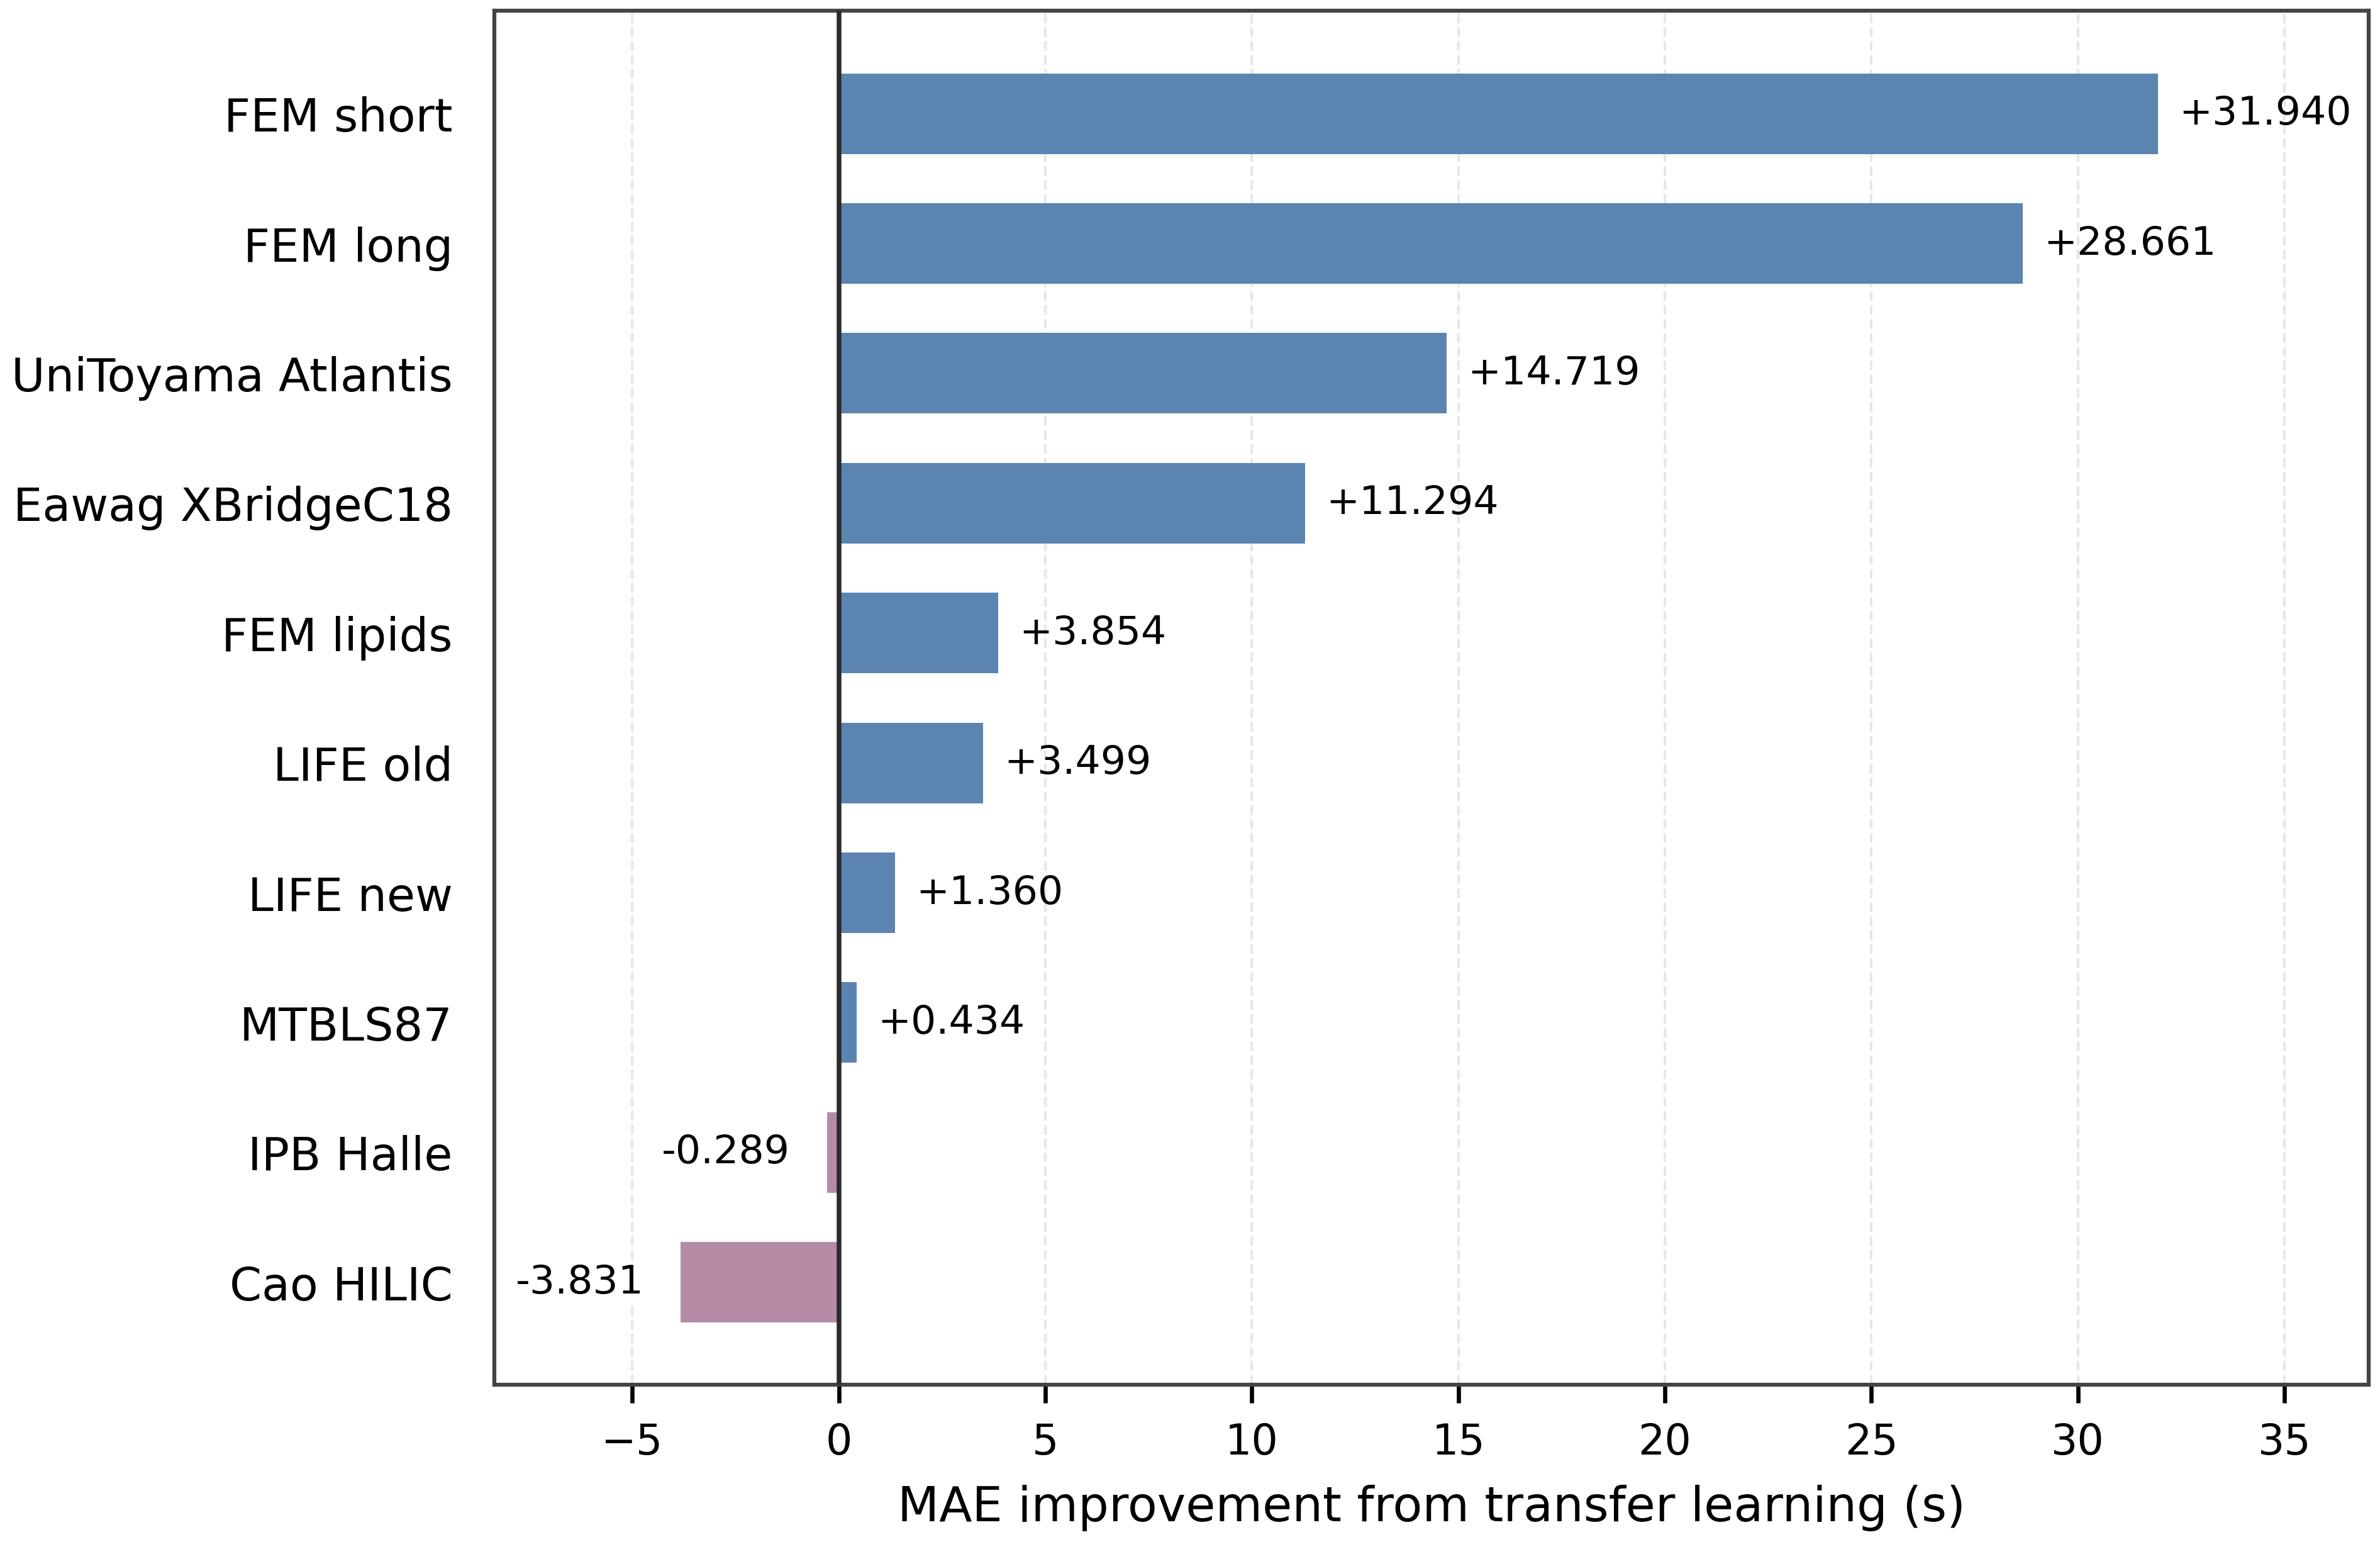
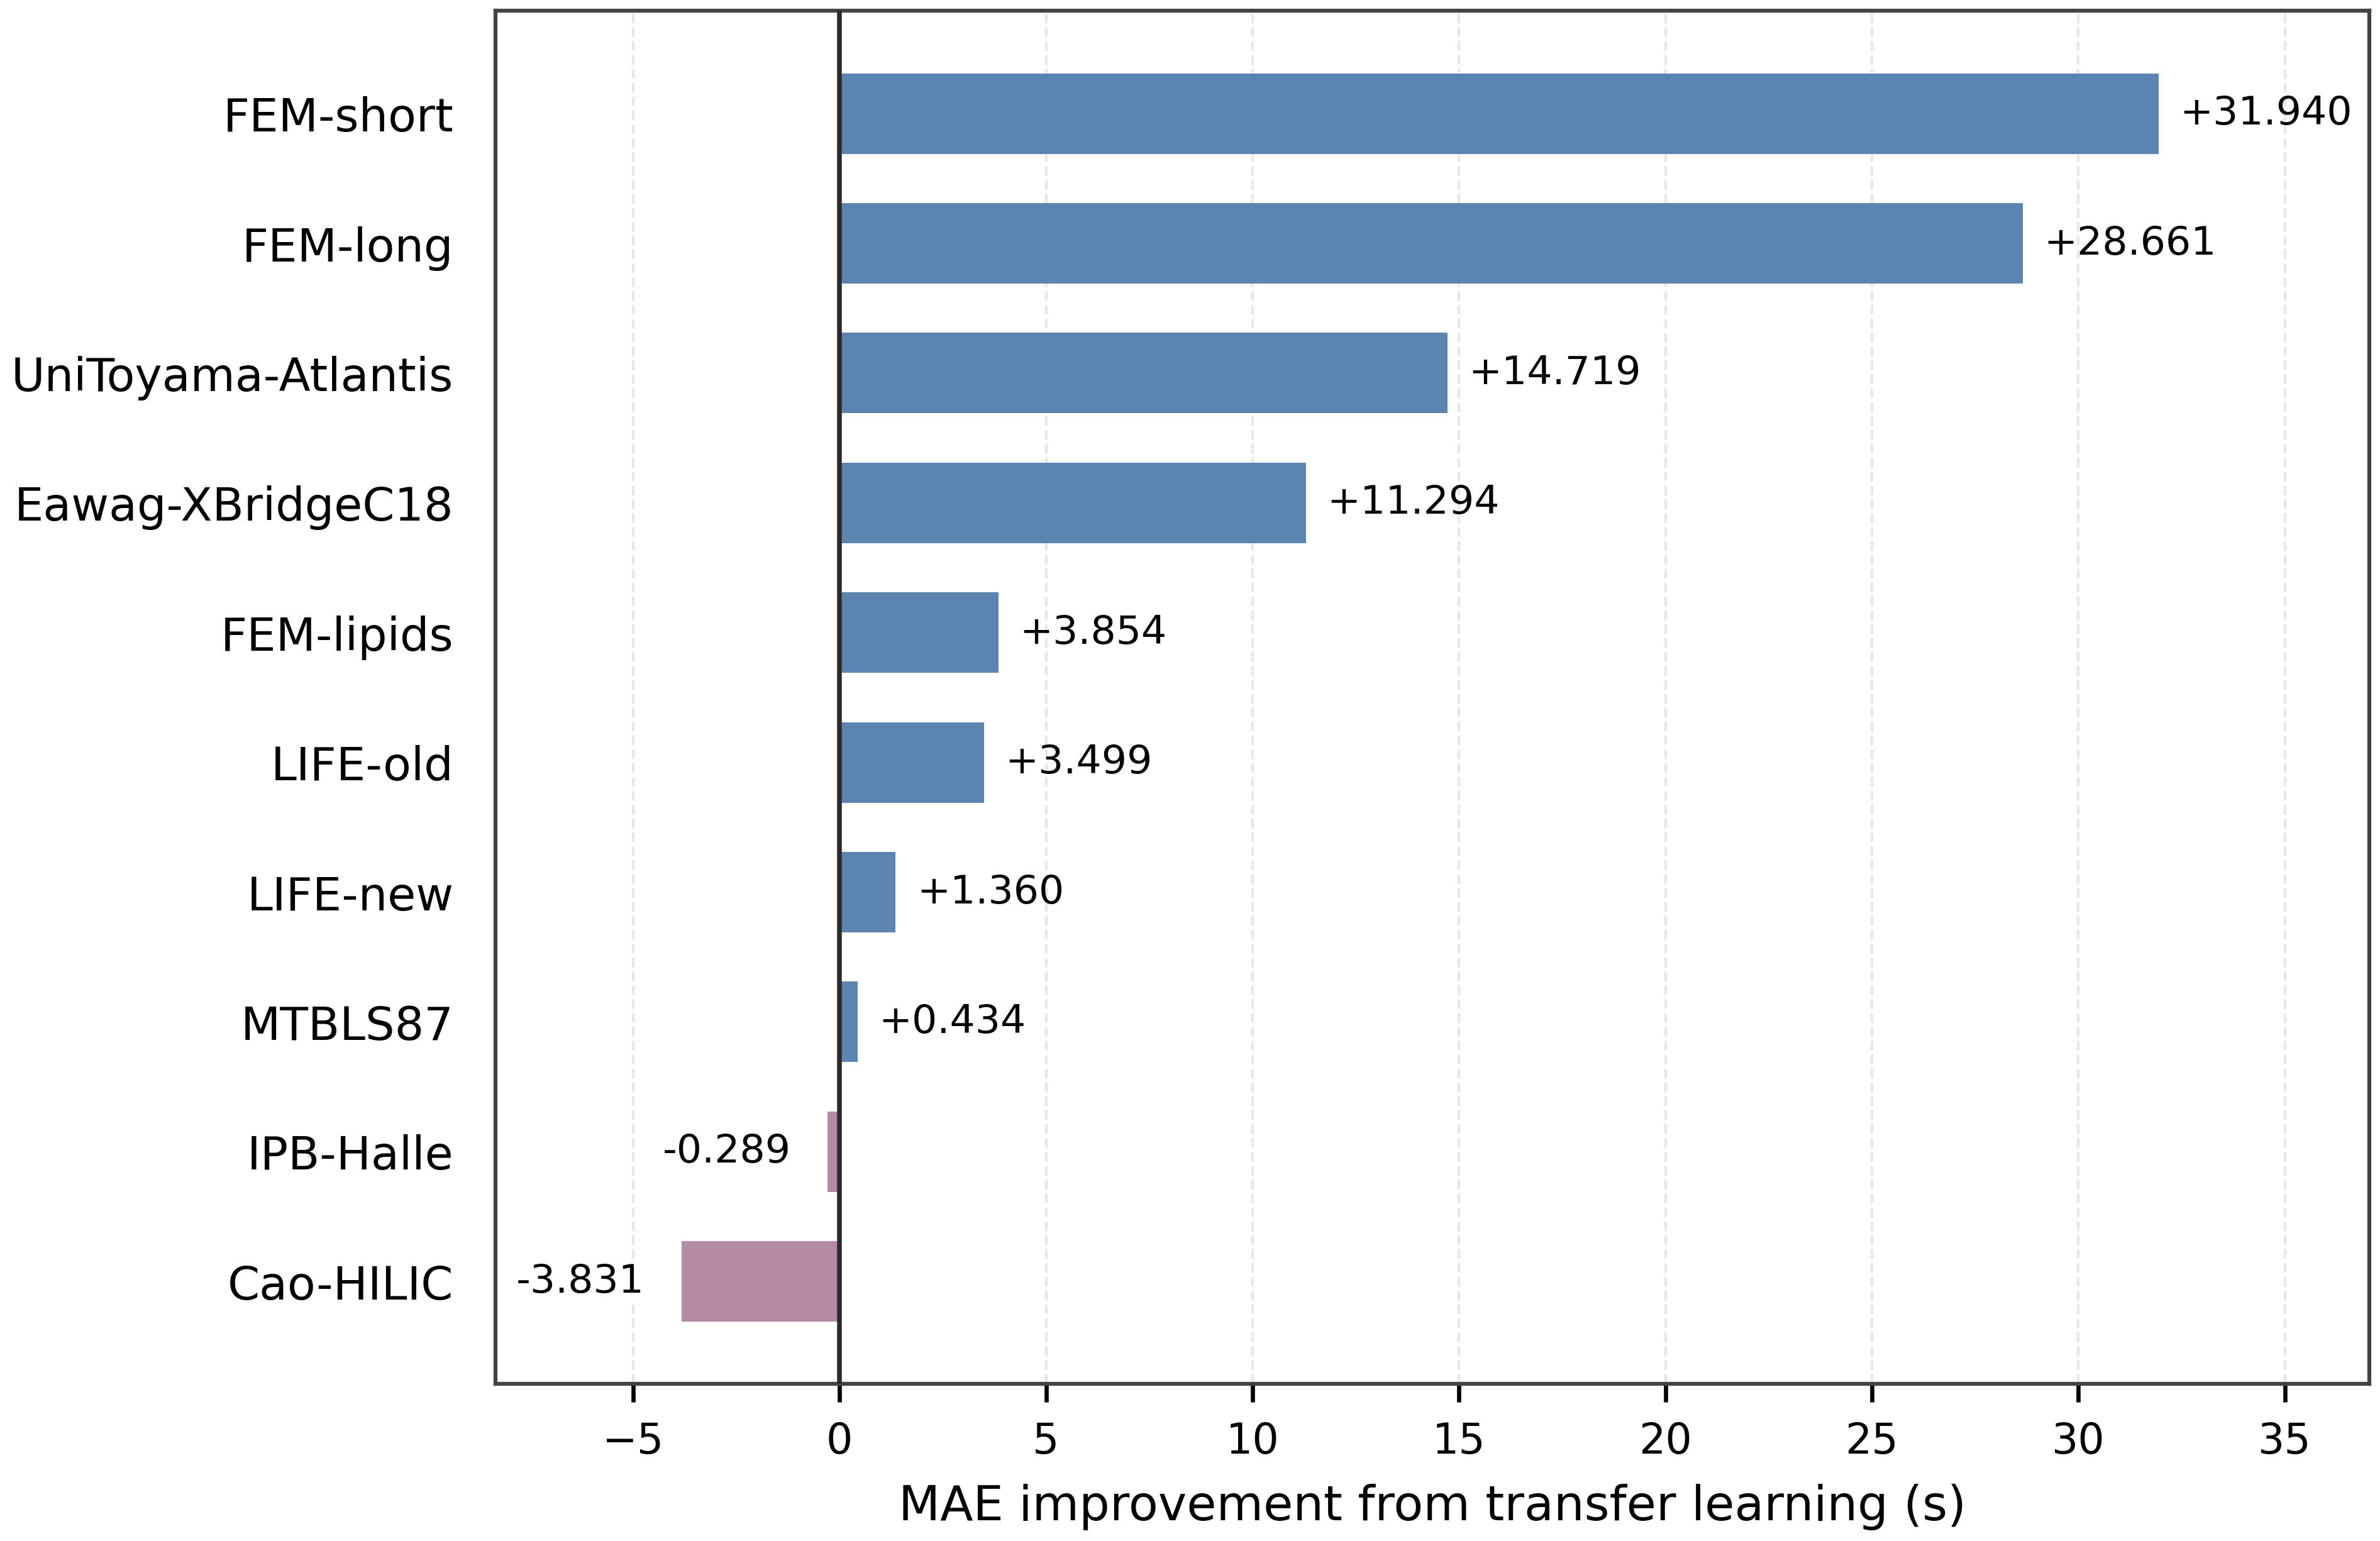
version 21

diff --git a/make_transfer_vs_scratch_figure_clean.py b/make_transfer_vs_scratch_figure_clean.py
@@ -32,11 +32,32 @@ def find_input():
     raise FileNotFoundError("Cannot find transfer-vs-scratch input table.")
 
 
+
+LABEL_MAP = {
+    "FEM_short_73": "FEM-short",
+    "FEM_long_412": "FEM-long",
+    "UniToyama_Atlantis_143": "UniToyama-Atlantis",
+    "Eawag_XBridgeC18_364": "Eawag-XBridgeC18",
+    "FEM_lipids_72": "FEM-lipids",
+    "LIFE_old_194": "LIFE-old",
+    "LIFE_new_184": "LIFE-new",
+    "MTBLS87_147": "MTBLS87",
+    "IPB_Halle_82": "IPB-Halle",
+    "Cao_HILIC_116": "Cao-HILIC",
+}
+
 def clean_dataset_label(name: str) -> str:
     s = str(name).strip()
-    s = re.sub(r"_\d+$", "", s)
-    s = s.replace("_", " ")
-    return s
+    if s in LABEL_MAP:
+        return LABEL_MAP[s]
+
+    s2 = re.sub(r"_\d+$", "", s)
+    if s2 in LABEL_MAP:
+        return LABEL_MAP[s2]
+
+    return s2.replace("_", "-")
+
+
 
 
 def pick_col(df, candidates):